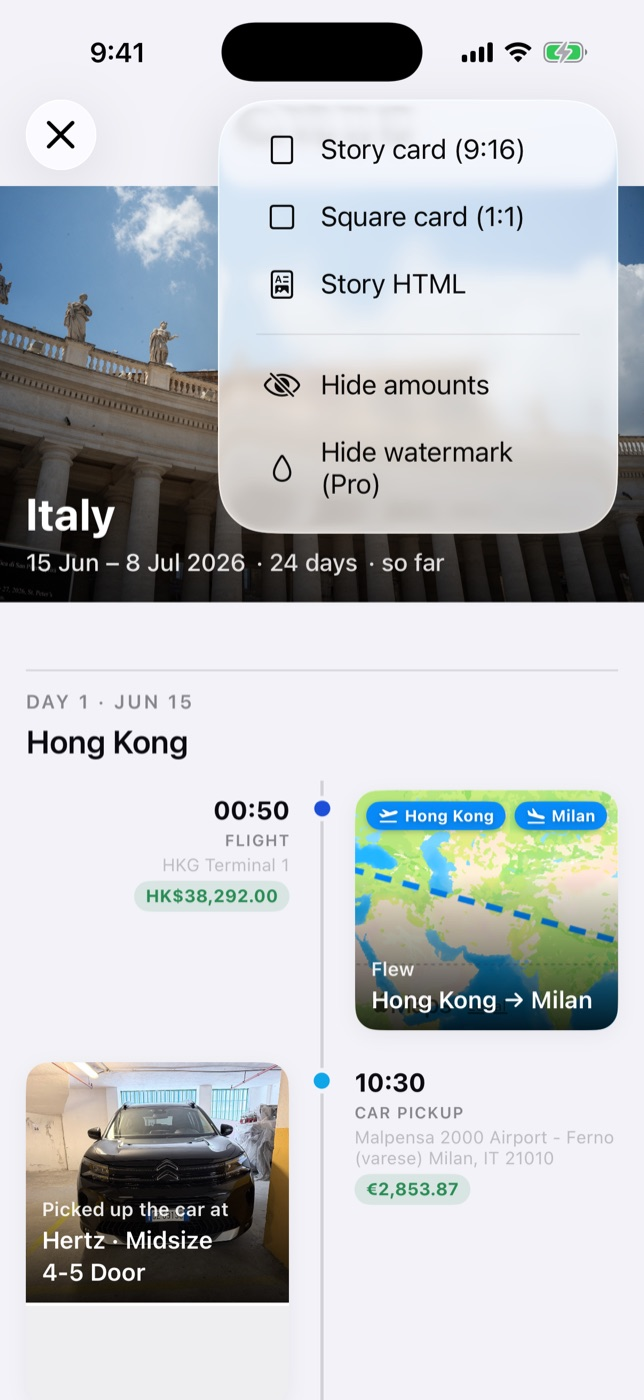
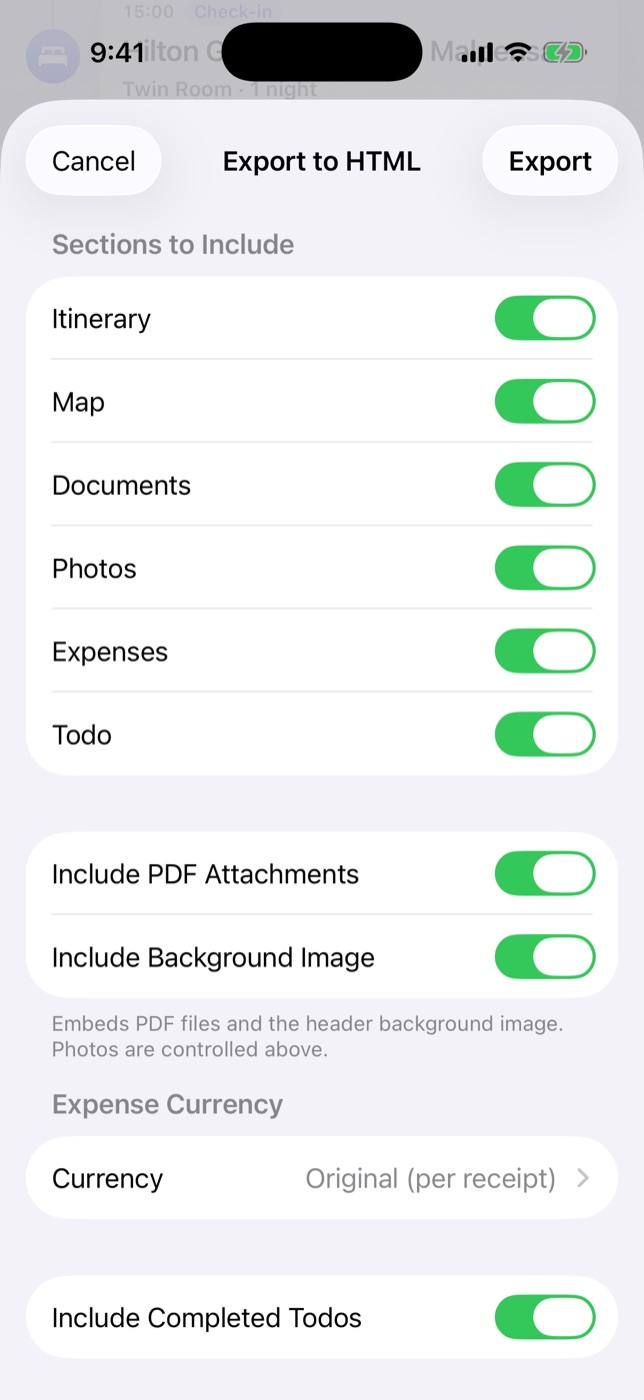
itinr: Export 샷을 Export to HTML 옵션 화면으로 교체

diff --git a/itinr/index.html b/itinr/index.html
@@ -172,7 +172,7 @@
     </div>
     <div class="shots">
       <div class="shot"><img src="img/07-story.jpg" alt="Trip story recap with hero image, timeline feed and flight route map" loading="lazy" /></div>
-      <div class="shot"><img src="img/08-export-html.jpg" alt="Trip story exported as a shareable web page that opens in any browser" loading="lazy" /></div>
+      <div class="shot"><img src="img/08-export-html.jpg" alt="Export to HTML — choose sections, attachments and currency for a shareable web page" loading="lazy" /></div>
     </div>
   </div>
 </section>